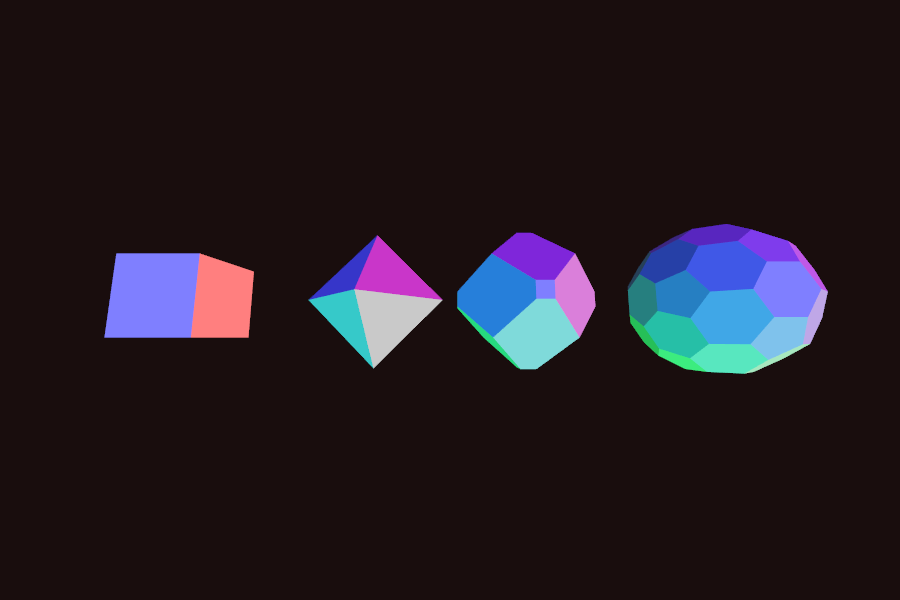
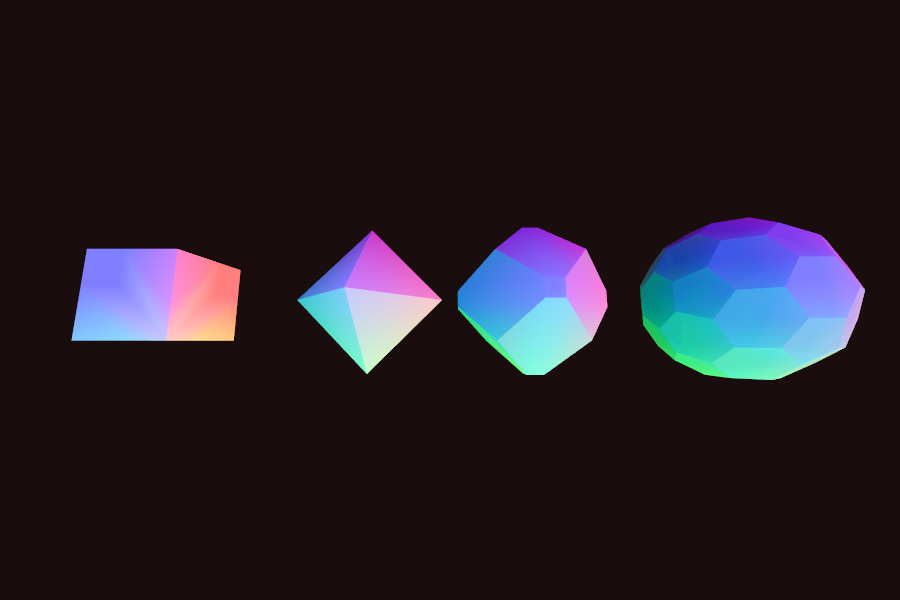
Fixes camera zoom on z-axis. Adds new screenshot.

Changed region(s): [[0.3111, 0.36, 0.9644, 0.63], [0.0622, 0.39, 0.28, 0.57]]

diff --git a/src/main.rs b/src/main.rs
@@ -249,9 +249,9 @@ fn main() {
                         let mut current_from = three_cam.get_from();
 
                         if line_y == 1.0 {
-                            current_from.x -= constants::ZOOM_INCREMENT;
+                            current_from.z -= constants::ZOOM_INCREMENT;
                         } else {
-                            current_from.x += constants::ZOOM_INCREMENT;
+                            current_from.z += constants::ZOOM_INCREMENT;
                         }
 
                         three_cam.set_from(&current_from);
